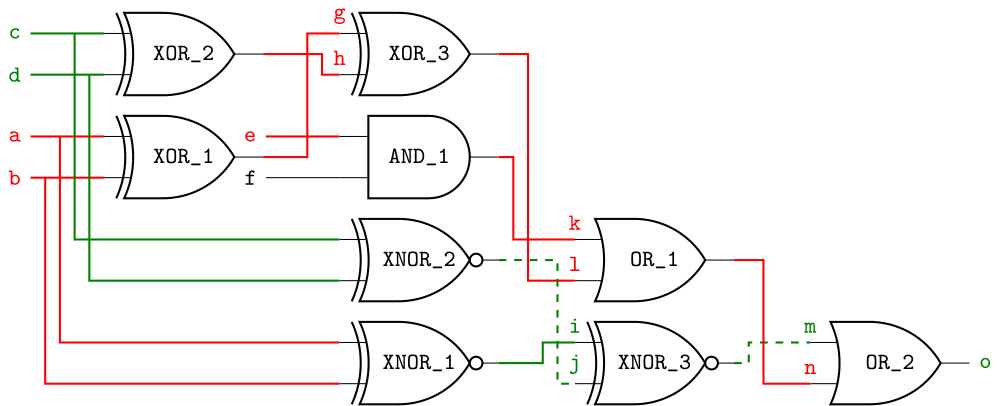
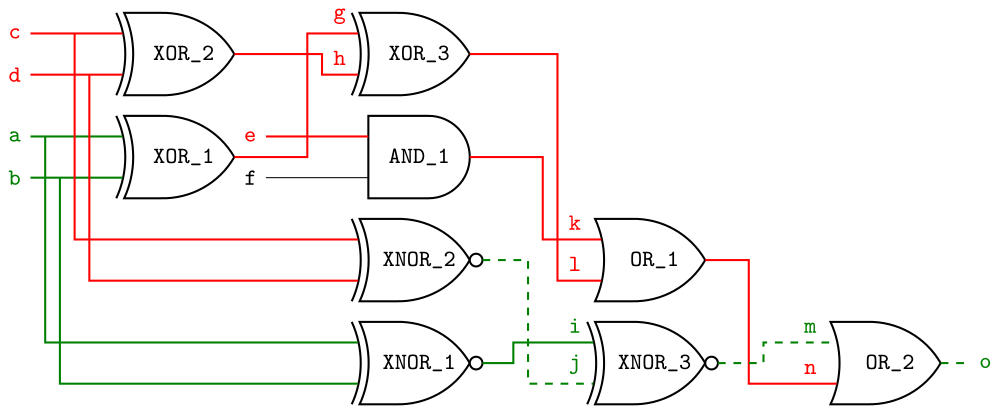
Fix TikZ writer not coloring pins

diff --git a/writer.py b/writer.py
@@ -44,7 +44,7 @@ class TikZWriter:
         net: Network,
         filename: str | PathLike,
         single_track_width: float = 0.2,
-        pin_width: float = 1.2,
+        pin_width: float = 0.6,
         component_width: float = 1.4,
         scale: float = 1.0,
         verbose: bool = False,
@@ -108,7 +108,7 @@ class TikZWriter:
             lines_in_layer.setdefault(max_x, []).append(line)
         accumulated_depths = [0.0]
         for layer in range(1, depth):
-            layer_width = (self.tracks_per_layer[layer] + 1) * self.single_track_width + self.pin_width
+            layer_width = (self.tracks_per_layer[layer] + 1) * self.single_track_width + self.pin_width * 2
             accumulated_depths.append(accumulated_depths[-1] + layer_width)
         for gate, (x, y) in self.gate_coordinates.items():
             self.tikz_gate_positions[gate] = (-(x + accumulated_depths[x]), y * self.component_width)
@@ -125,6 +125,7 @@ class TikZWriter:
             formatted = _BOILERPLATE_FORMAT.format(scale=self.scale, content="{content}")
             pre, post = formatted.split("{content}")
             f.write(pre)
+            f.write("\\ctikzset{logic ports draw leads=false}\n")
             for gate in self.net.gates:
                 self._write_gate(f, gate)
             for line in self.net.lines:
@@ -161,31 +162,65 @@ class TikZWriter:
 
         elif line.parent is None and line.children:
             earliest_gate = max((child for child in line.children), key=lambda gate: self.gate_coordinates[gate][0])
-            input_index = earliest_gate.inputs.index(line)
+            in_pin = earliest_gate.inputs.index(line)
             layer = self.gate_coordinates[earliest_gate][0]
             layer_width = (self.tracks_per_layer[layer] + 1) * self.single_track_width
             track_offset = (self.line_tracks[line] + 1) * self.single_track_width
-            position = f"({self._node_name(earliest_gate)}.in {input_index + 1}) ++(-{layer_width:.1f}, 0)"
+            position = f"({self._node_name(earliest_gate)}.in {in_pin + 1}) ++(-{layer_width:.1f}, 0)"
             file.write(f"\\draw {position}{modifier_str} node[left] ({line_id}) {{\\verb|{line.name}|}};\n")
             file.write(f"\\draw{modifier_str}")
+            fmt = (
+                " ({line_id}.east) -- ++({track_offset:.2f}, 0)"
+                " |- ({in_id}.in {in_pin}) {node} -- ({in_id}.bin {in_pin})"
+            )
             for child in line.children:
-                input_index = child.inputs.index(line)
-                input_position = f"({self._node_name(child)}.in {input_index + 1})"
-                file.write(f" ({line_id}.east) -- ++({track_offset:.1f}, 0) |- {input_position}")
+                in_id = self._node_name(child)
+                in_pin = child.inputs.index(line) + 1
+                node = ""
+                file.write(
+                    fmt.format(
+                        line_id=line_id,
+                        track_offset=track_offset,
+                        in_id=in_id,
+                        in_pin=in_pin,
+                        node=node,
+                    )
+                )
             file.write(";\n")
 
         elif line.parent is not None and not line.children:
-            file.write(f"\\draw{modifier_str} ({self._node_name(line.parent)}.out) node[right] {{\\verb|{line.name}|}};\n")
+            fmt = "\\draw{modifier_str} ({out_id}.bout) -- ({out_id}.out) node[right] {{\\verb|{line_name}|}};\n"
+            file.write(
+                fmt.format(
+                    out_id=self._node_name(line.parent),
+                    line_name=line.name,
+                    modifier_str=modifier_str,
+                )
+            )
 
         elif line.parent is not None and line.children:
             file.write(f"\\draw{modifier_str}")
+            fmt = (
+                " ({out_id}.bout) -- ({out_id}.out) -- ++({track_offset:.2f}, 0)"
+                " |- ({in_id}.in {in_pin}) {node} -- ({in_id}.bin {in_pin})"
+            )
+            out_id = self._node_name(line.parent)
             track_offset = (self.line_tracks[line] + 1) * self.single_track_width
-            start_path = f"({self._node_name(line.parent)}.out) -- ++({track_offset:.1f}, 0)"
             for child in line.children:
-                input_index = child.inputs.index(line)
-                input_position = f"({self._node_name(child)}.in {input_index + 1})"
-                file.write(f" {start_path} |- {input_position}")
-            file.write(f" node[above, pos=1] {{\\verb|{line.name}|}};\n")
+                in_id = self._node_name(child)
+                in_pin = child.inputs.index(line) + 1
+                node = f"node[above] {{\\verb|{line.name}|}}"
+                file.write(
+                    fmt.format(
+                        out_id=out_id,
+                        pin_length=self.pin_width,
+                        track_offset=track_offset,
+                        in_id=in_id,
+                        in_pin=in_pin,
+                        node=node,
+                    )
+                )
+            file.write(";\n")
 
         else:
             assert False, "Unreachable"
